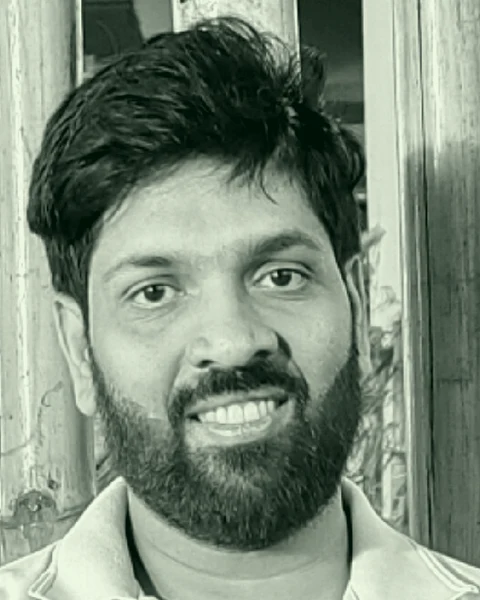
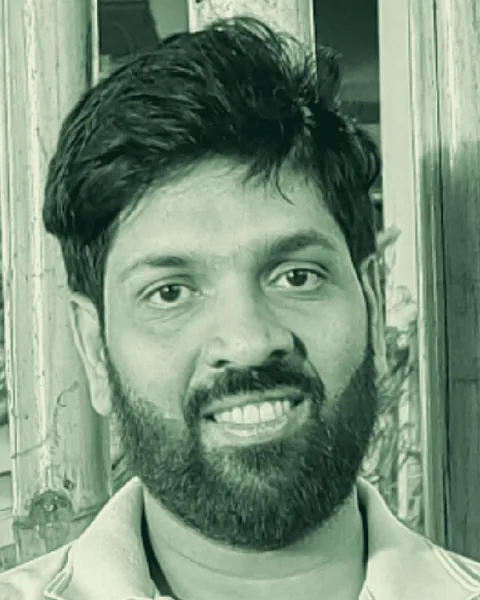
fix(site): correct Sujith's portrait duotone and document the process
The prior fix (57e10aa) used a 2-point duotone approximated from sampled
pixel extremes, which came out flatter/less green than the rest of
assets/speakers/. The actual pipeline, previously only written ad hoc in
a past session and never committed, uses a 3-stop gradient with a
distinct olive-green midtone plus a face-matched crop.

Adds scripts/portrait.py so it's reproducible, and documents it in
README.md.

diff --git a/scripts/portrait.py b/scripts/portrait.py
@@ -1,0 +1,94 @@
+#!/usr/bin/env python3
+"""Crop a headshot to the site's 4:5 speaker/leader portrait format and
+apply the forest-green duotone used across assets/speakers/ and the two
+committee.html leadership portraits.
+
+Usage:
+    python3 scripts/portrait.py SOURCE OUTPUT.webp [--face X,Y,W,H]
+
+Without --face, the largest frontal face found by OpenCV's Haar cascade is
+used. Pass --face to override detection (pixel coordinates in the source
+image) when it picks the wrong face or misses one.
+"""
+import argparse
+import sys
+
+import cv2
+import numpy as np
+from PIL import Image, ImageOps
+
+OW, OH = 480, 600
+FACE_RATIO = 0.36  # face height as a fraction of crop height
+CY = 0.42  # face-centre position from the top of the crop, as a fraction of crop height
+
+# Duotone gradient stops: (position 0-1, RGB). Sampled from the leadership
+# portraits so every speaker/leader photo reads as one set regardless of
+# source lighting.
+STOPS = [(0.0, (5, 28, 22)), (0.55, (118, 150, 122)), (1.0, (232, 238, 216))]
+
+
+def build_lut():
+    lut = np.zeros((256, 3))
+    for i in range(256):
+        t = i / 255
+        for (a, ca), (b, cb) in zip(STOPS, STOPS[1:]):
+            if a <= t <= b:
+                k = (t - a) / (b - a)
+                lut[i] = np.array(ca) * (1 - k) + np.array(cb) * k
+    return lut.astype(np.uint8)
+
+
+def duotone(im, lut):
+    g = np.asarray(im.convert("L")).astype(float)
+    lo, hi = np.percentile(g, 1), np.percentile(g, 99)
+    g = np.clip((g - lo) / max(hi - lo, 1) * 255, 0, 255).astype(np.uint8)
+    return Image.fromarray(lut[g])
+
+
+def detect_face(path):
+    img = cv2.imread(path)
+    gray = cv2.cvtColor(img, cv2.COLOR_BGR2GRAY)
+    cascade = cv2.CascadeClassifier(
+        "/usr/share/opencv5/haarcascades/haarcascade_frontalface_default.xml"
+    )
+    faces = cascade.detectMultiScale(gray, scaleFactor=1.05, minNeighbors=5, minSize=(100, 100))
+    if len(faces) == 0:
+        sys.exit("No face detected; pass --face X,Y,W,H")
+    # Largest face wins if several are found.
+    return max(faces, key=lambda f: f[2] * f[3])
+
+
+def main():
+    parser = argparse.ArgumentParser(description=__doc__)
+    parser.add_argument("source")
+    parser.add_argument("output")
+    parser.add_argument("--face", help="X,Y,W,H face box in source pixels, overrides detection")
+    parser.add_argument("--face-ratio", type=float, default=FACE_RATIO)
+    parser.add_argument("--cy", type=float, default=CY)
+    args = parser.parse_args()
+
+    if args.face:
+        x, y, w, h = (int(v) for v in args.face.split(","))
+    else:
+        x, y, w, h = detect_face(args.source)
+
+    im = ImageOps.exif_transpose(Image.open(args.source)).convert("RGB")
+    W, H = im.size
+
+    ch = h / args.face_ratio
+    cw = ch * OW / OH
+    s = min(1, W / cw, H / ch)
+    cw *= s
+    ch *= s
+    cx, cy = x + w / 2, y + h / 2
+    left = min(max(cx - cw / 2, 0), W - cw)
+    top = min(max(cy - args.cy * ch, 0), H - ch)
+    box = tuple(round(v) for v in (left, top, left + cw, top + ch))
+
+    crop = im.crop(box).resize((OW, OH), Image.LANCZOS)
+    duotone(crop, build_lut()).save(args.output, "WEBP", quality=82, method=6)
+    print(f"face={x},{y},{w},{h} box={box} -> {args.output}")
+
+
+if __name__ == "__main__":
+    main()

diff --git a/README.md b/README.md
@@ -130,6 +130,18 @@ Regenerate them from the originals rather than editing the `.webp` files by hand
 A speaker without a usable photo gets a lettered placeholder (`.speaker-monogram`) until one
 arrives.
 
+Both the leadership and speaker portraits are produced with `scripts/portrait.py`:
+
+```sh
+python3 scripts/portrait.py path/to/original.jpg assets/speakers/name.webp
+```
+
+It face-detects the subject (OpenCV Haar cascade; pass `--face X,Y,W,H` to override when
+detection picks the wrong face), crops to 4:5 with the face at a matched size and vertical
+position, then applies the shared forest-green duotone: a three-stop gradient
+(`#051c16` shadows, `#76967a` mid, `#e8eed8` highlights) over a 1st/99th-percentile
+contrast stretch. Requires `opencv-python`, `numpy` and `Pillow`.
+
 ## Deploy
 
 Deploy the current working tree to the production S3 bucket and invalidate CloudFront:
